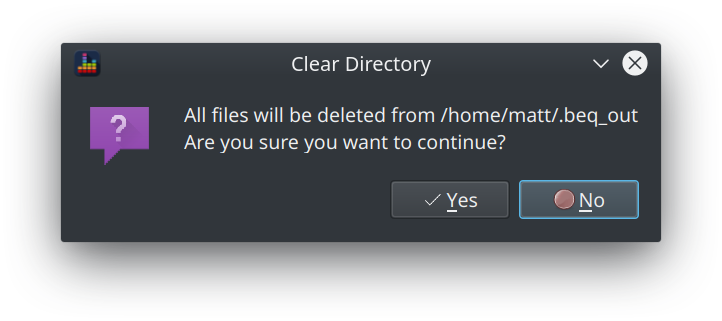
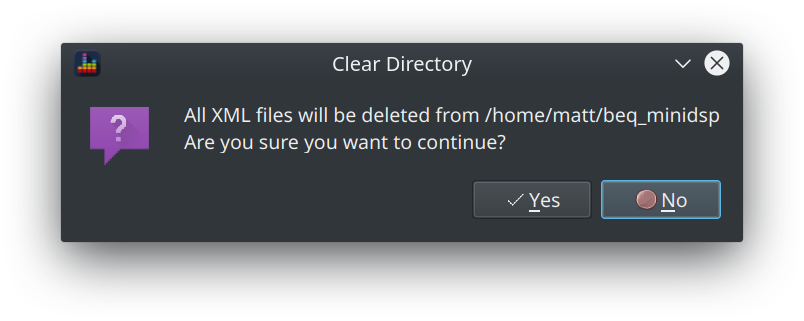
updated docs to match 0.6.3-beta.5 functionality

diff --git a/docs/ui/merge_minidsp_xml.md b/docs/ui/merge_minidsp_xml.md
@@ -5,8 +5,11 @@ BEQDesigner provides support for the most commonly used mechanism for applying B
 
 ### Prerequisites
 
-  1. You are using a minidsp 2x4 or 2x4 HD
-  2. You do not use the input EQ slots (PEQ_1 and PEQ_2 in the xml configuration file)
+  1. You are using a supported minidsp device
+    * [2x4](https://www.minidsp.com/products/minidsp-in-a-box/minidsp-2x4) (either balanced or unbalanced)
+    * [2x4 HD](https://www.minidsp.com/products/minidsp-in-a-box/minidsp-2x4-hd)
+    * [10x10 HD](https://www.minidsp.com/products/minidsp-in-a-box/minidsp-10x10-hd)
+  2. You do not use the input EQ slots
   3. You have exported your existing configuration via the minidsp UI to an XML file
 
 This function is not for you if you do not meet these requirements.
@@ -30,26 +33,37 @@ Clicking the button will instruct BEQDesigner to connect to github and clone the
 Next
 
 * click the button next to the config file and pick your XML config file
+* change the output directory as necessary
+    * note that BEQDesigner will create a new directory in whichever directory you pick in order to try to avoid clashing with any existing files
 * pick your minidsp device from the dropdown
-* click the tick button 
+* click the Save button (in the *Files Processed* row)
 
 ![Confirm](../img/merge_3.png)
 
 !!! warning
-    BEQDesigner will ask for confirmation as the entire output directory **will** be deleted, do not store anything else in this directory!
+    BEQDesigner will ask for confirmation if the output directory contains any files with the .xml extension. 
+        * If you click Yes, all such files will be deleted
+        * If you click No, no files will be deleted and BEQDesigner will take no further action 
  
-* click OK to continue
+* click Yes to continue
 
-The count of files processed should increase rapidly and the error field should remain empty
+The following events should now happen:
+
+* The count of files processed should increase rapidly
+* The save button should change to a spinner which continues to spin
 
 ![In Progress](../img/merge_4.png)
 
-This should ultimately show all files have been processed successfully
+If the selected minidsp type is the 2x4 HD then all files should be processed successfully
 
 ![Done](../img/merge_5.png)
 
+However if the selected minidsp type is either the 2x4 or the 10x10 HD then errors should be expected as the hardware only supports 6 biquads per output channel and some BEQ filters require more than 6  biquads. The error section will specify which files were not processed successfully and how many biquads you'd need to eliminate to use this directly. A suggested workaround is found [below](#Working-around-Fixed-Point-Hardware-Limitations)
+
+![NonHD](../img/merge_error.png)
+
 !!! info
-    If any errors are encountered, raise an issue via [github issues](https://github.com/3ll3d00d/beqdesigner/issues) to discuss further
+    If any other errors are encountered, raise an issue via [github issues](https://github.com/3ll3d00d/beqdesigner/issues) to discuss further
 
 ### Keeping the Repository Up to date
 
@@ -59,7 +73,40 @@ If more than 7 days have passed since the last commit found locally then BEQDesi
 
 ![Update](../img/merge_6.png)
 
+### Working around Fixed Point Hardware Limitations
 
+The limitations of the 2x4 and 10x10HD hardware make it hard to give precise guidance however some general principles apply.
 
+Firstly load the filter into BEQDesigner using `File > Add BEQ Filter` or `CTRL+SHIFT+B`
 
+Typically there will be 2 ways to reduce the biquad count. At the time of writing, *A Star is Born* is a good example of both aspect.
 
+![Reduce](../img/reduce_filter_count.png)
+
+#### Remove Offsetting PEQ
+
+Some BEQs employ a small PEQ to offset the overshoot of the LS filters. Try removing this PEQ to see if the effect is small.
+
+In the *A Star is Born* example, the PEQ at 62Hz is such a filter.
+
+#### Reduce LS Filter Stacking
+
+Many BEQs stack multiple low shelf filters in order to reduce the magnitude of the overshoot. If such a filter is present, try the following:
+
+* click edit on the filter
+* make a note of the S value
+
+![Unstack1](../img/unstack_ls_1.png)
+
+* calculate the total gain by count * gain (+29.4dB in this example)
+* reduce the count and increase the gain to maintain the same total gain while reducing the total biquad count as necessary (e.g. count = 3 and gain = 9.8)
+* increase the Q value until S returns to approximately the previous value (where approximately means +/- 0.001)
+
+![Unstack2](../img/unstack_ls_2.png)
+
+* if the Q value has not changed too much (e.g. a change of less than <0.1) then the final response should be very similar however you will need to review this visually to be sure
+
+!!! warning
+    There are 2 possible problems with this approach
+        1. the minidsp UI only accept Q values with 1 decimal place, you will most likely need to convert these filters to custom biquads in order to import them
+        2. some LS filters are at ULF frequencies and the 2x4 hardware has precision issues in this region, be careful when translating this to your own hardware

diff --git a/docs/ui/add_filter.md b/docs/ui/add_filter.md
@@ -19,6 +19,10 @@ From top to bottom:
 * Gain: the filter gain in dB
 * Count: for Shelf filters only, a convenience mechanism for stacking multiple shelf filters
 
+!!! info
+    Use the button next to each field to change the size of the step up or down
+    Click multiple times to see the available step sizes
+
 The buttons to the right of each field show the current step size for the field, click the field to change the resolution to allow fine tuning or coarse adjustments.
 
 The buttons across the bottom are, from left to right:
